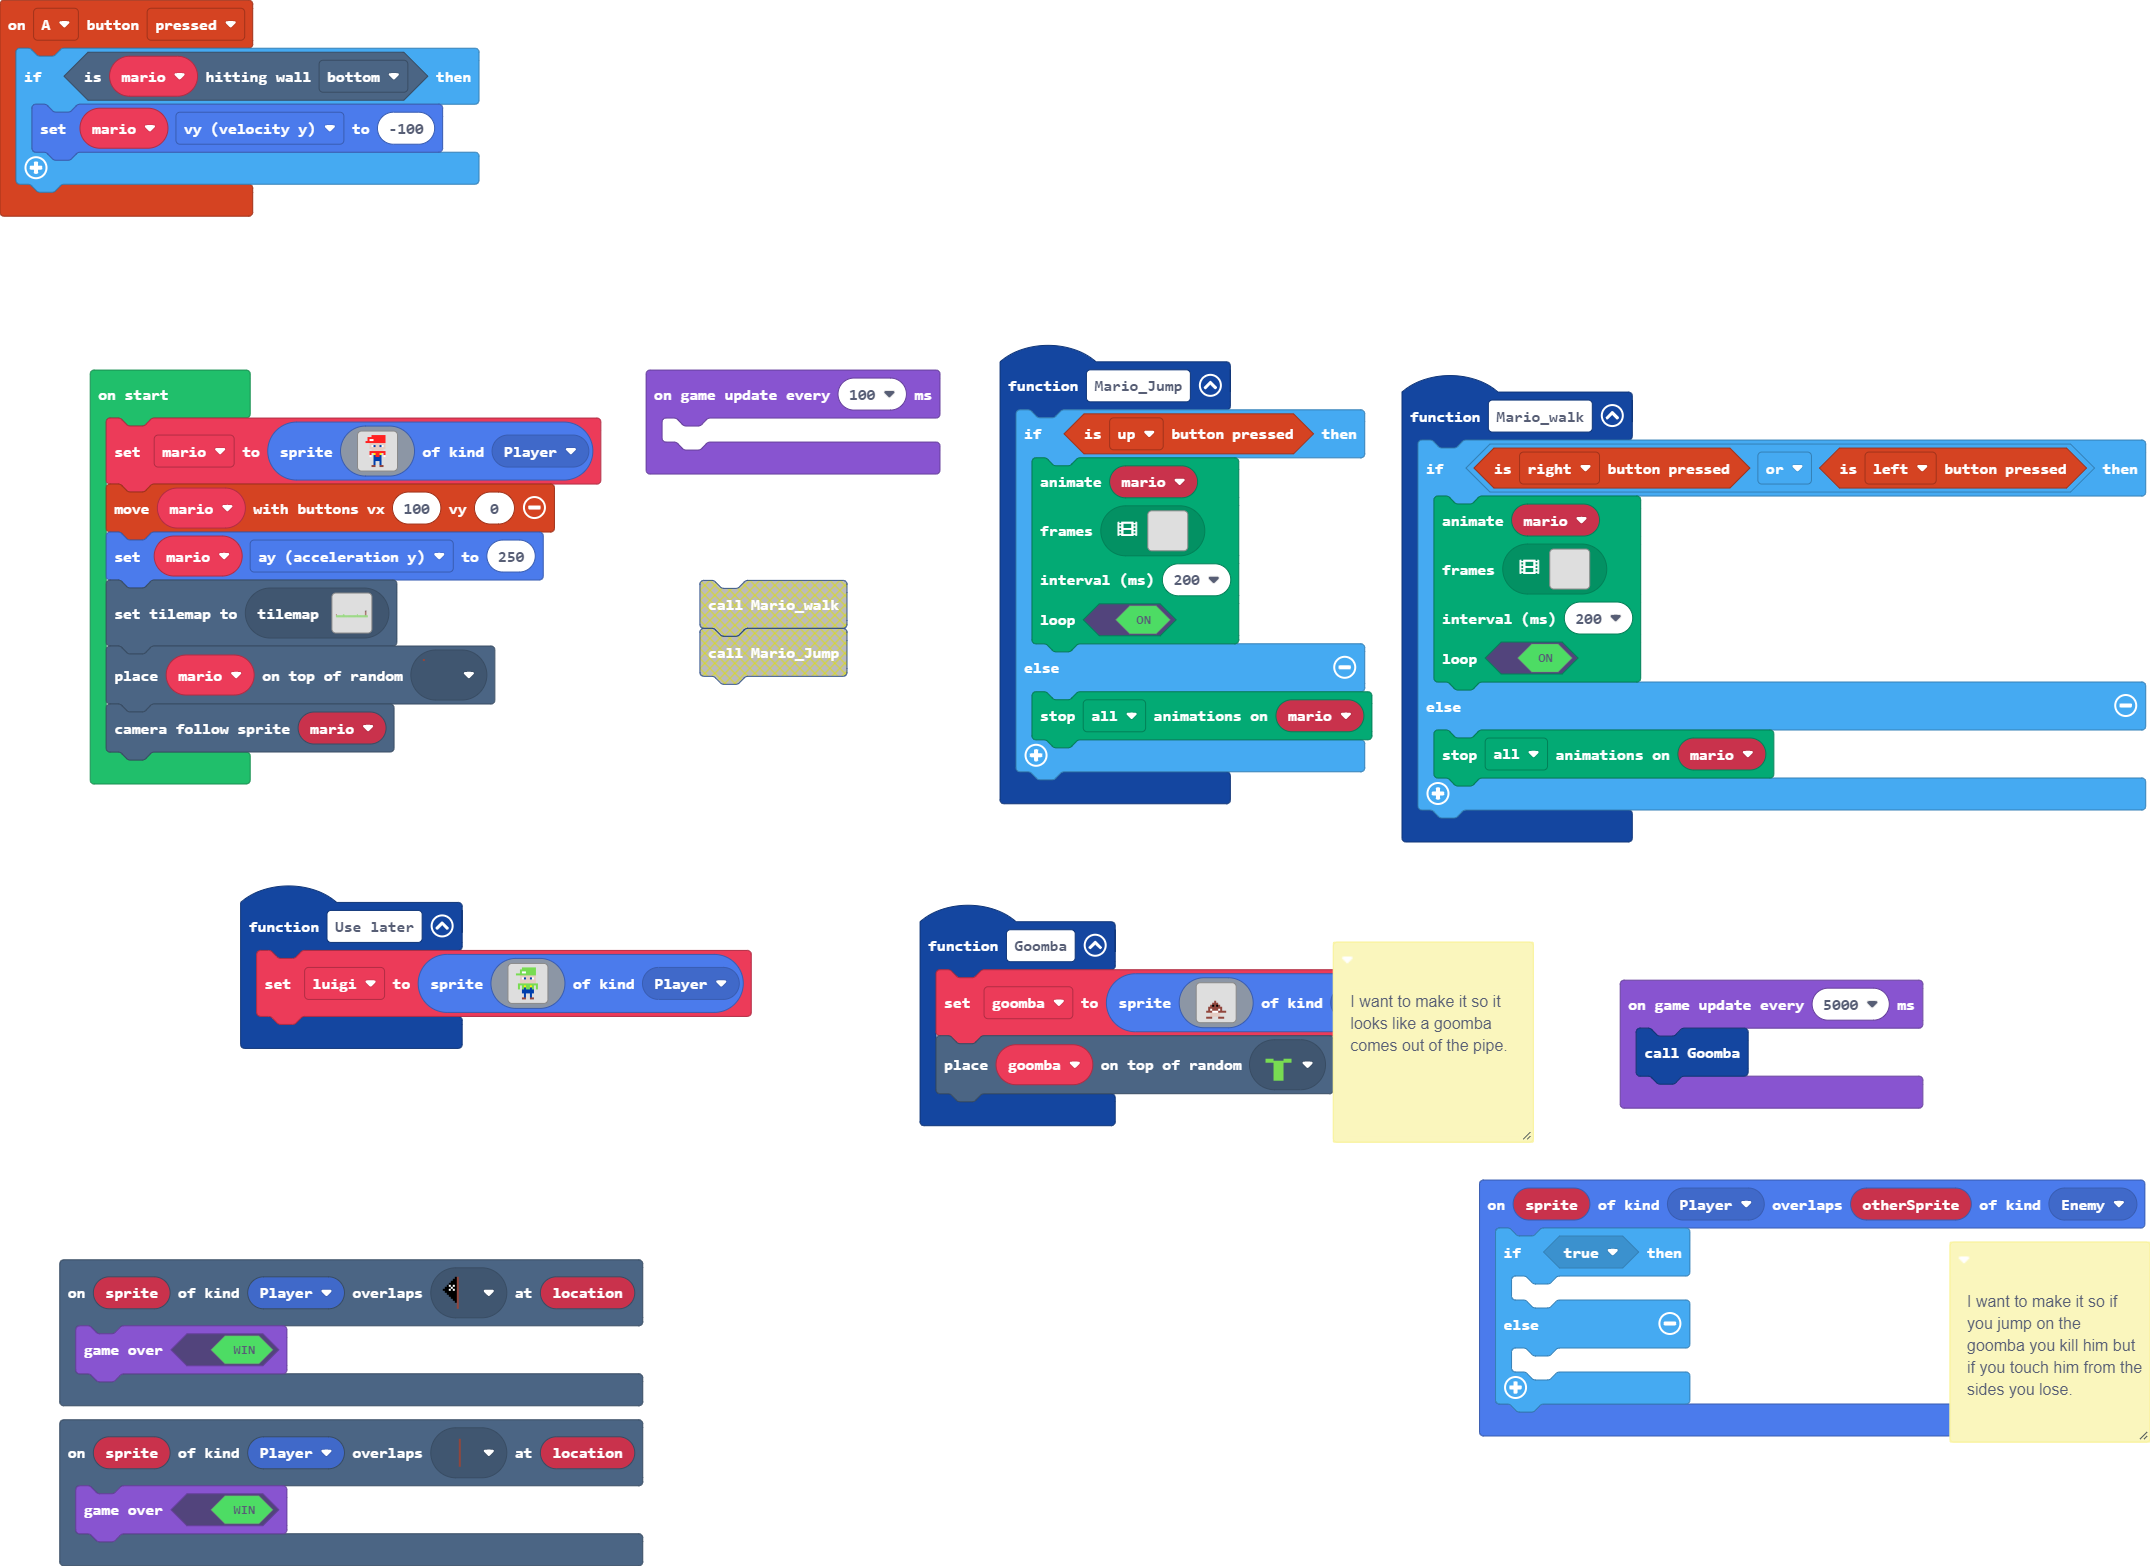
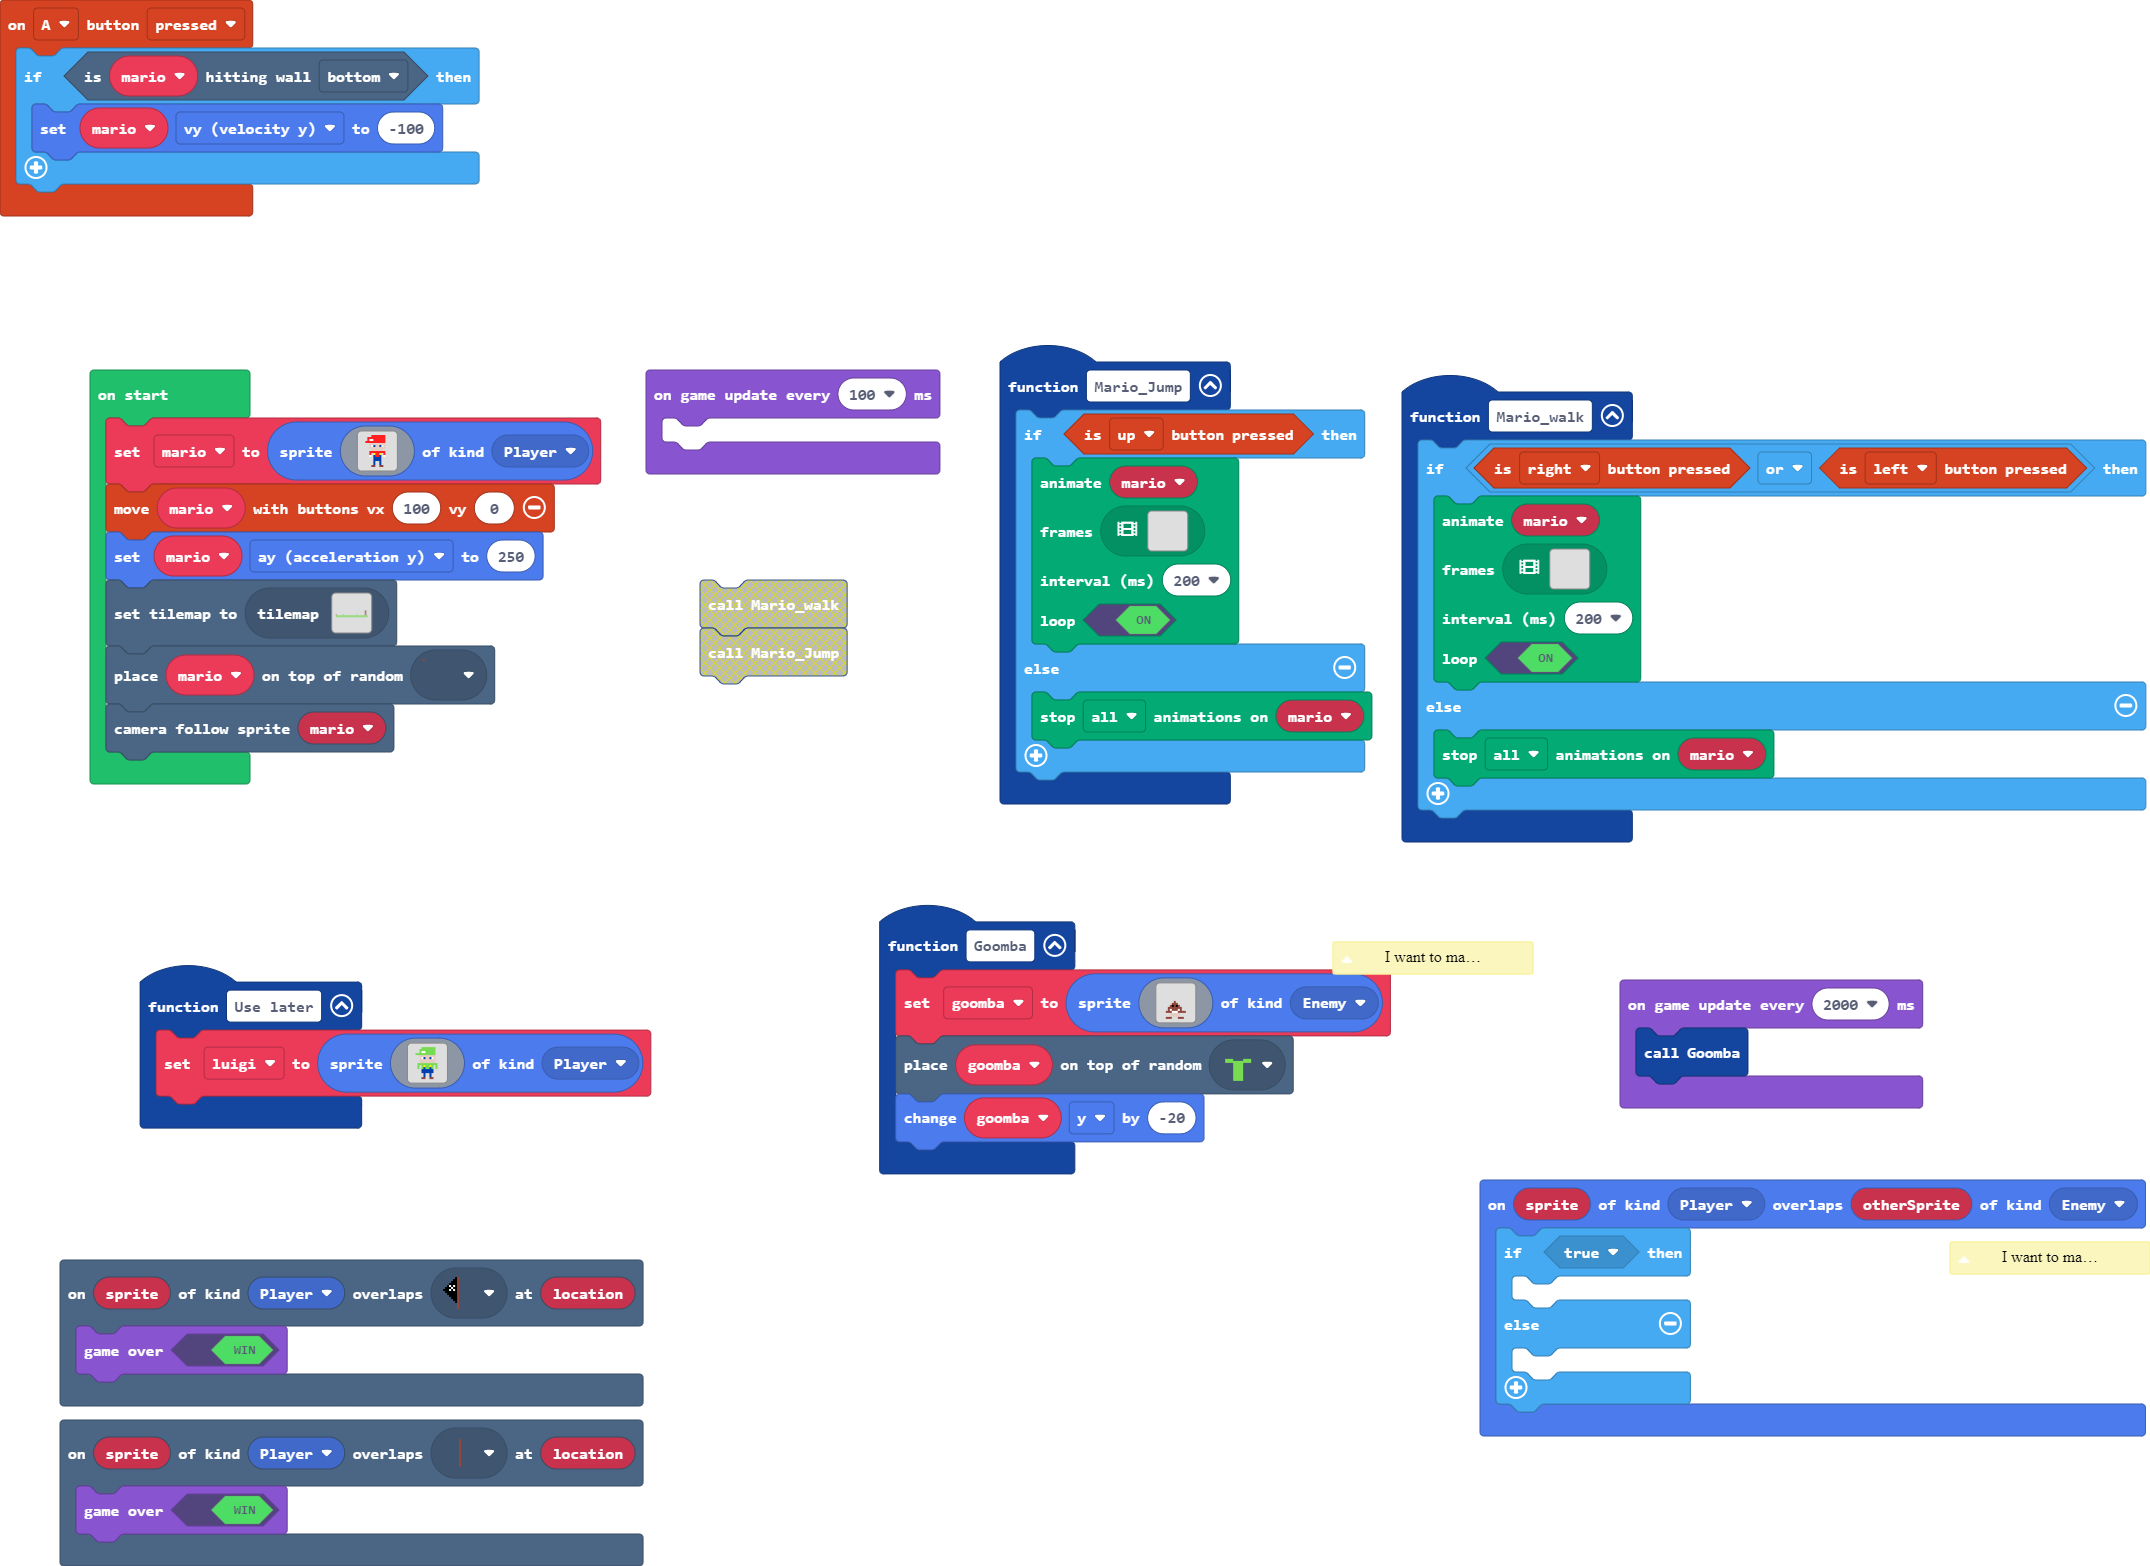
Update main.blocks, main.ts

diff --git a/main.ts b/main.ts
@@ -21,6 +21,7 @@ function Goomba () {
         . . . e e e . . . e e e . . . . 
         `, SpriteKind.Enemy)
     tiles.placeOnRandomTile(goomba, assets.tile`myTile`)
+    goomba.y += -20
 }
 scene.onOverlapTile(SpriteKind.Player, assets.tile`myTile1`, function (sprite, location) {
     game.gameOver(true)
@@ -147,7 +148,7 @@ mario.ay = 250
 tiles.setCurrentTilemap(tilemap`level1`)
 tiles.placeOnRandomTile(mario, assets.tile`myTile4`)
 scene.cameraFollowSprite(mario)
-game.onUpdateInterval(5000, function () {
+game.onUpdateInterval(2000, function () {
     Goomba()
 })
 game.onUpdateInterval(100, function () {
